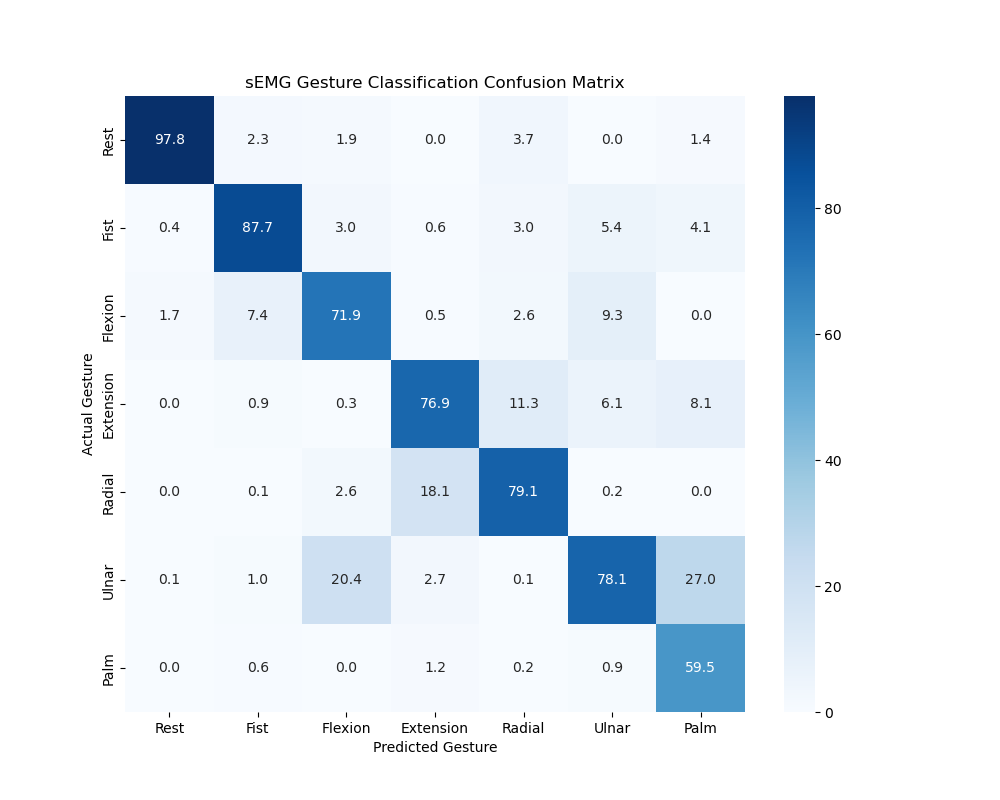
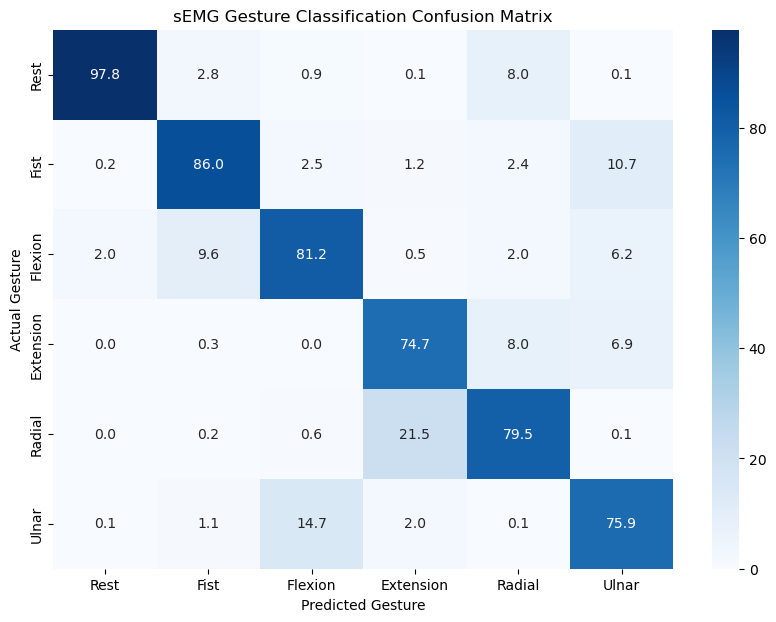
mb x2

diff --git a/README.md b/README.md
@@ -1,13 +1,13 @@
 # CNN-FANet sEMG Gesture Classifier
 
-CNN with channel attention for classifying 7 hand gestures from 8-channel surface EMG data.
+CNN with channel attention for classifying 6 hand gestures from 8-channel surface EMG data.
 
 ## Dataset
 UCI EMG Data for Gestures: [view here](https://archive.ics.uci.edu/dataset/481/emg+data+for+gestures)
 EMG data collected via sEMG sensors, labeled by their corresponding hand gesture.
 
 ## Gestures
-Rest, Fist, Flexion, Extension, Radial Deviation, Ulnar Deviation, Palm
+Rest, Fist, Flexion, Extension, Radial Deviation, Ulnar Deviation
 
 ## Model
 Two Conv1d layers for feature extraction followed by a channel attention block (FANet-style), then global average pooling and a fully connected classifier. Input shape: `(Batch, 8, WINDOW_SIZE)`.
